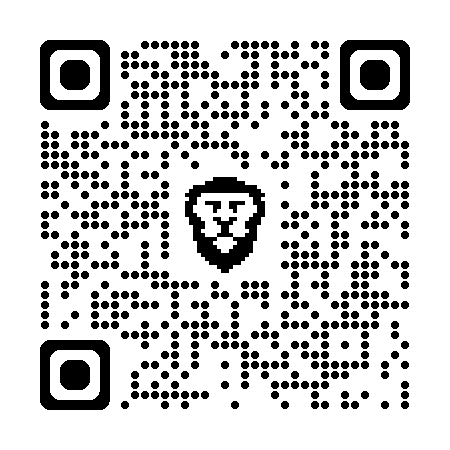
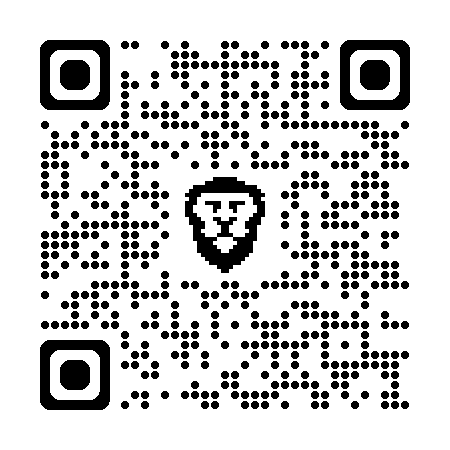
link to the prez

diff --git a/Presentation.md b/Presentation.md
@@ -222,6 +222,17 @@ Note:
 
 ---
 # Thank you!
-Any questions? Get in touch!
-
-<a href="mailto:ivo@nilleb.co">ivo@nilleb.co</a>
+<div class="side-by-side">
+    <div>
+        <p>
+        Any questions? Get in touch!
+        <p>
+        <a href="mailto:ivo@nilleb.co">ivo@nilleb.co</a>
+    </div>
+<p>
+You liked this presentation?
+Star the repo on GitHub!
+<br>
+<img src="repo-qrcode.png" style="width: 40%">
+</p>
+</div>
